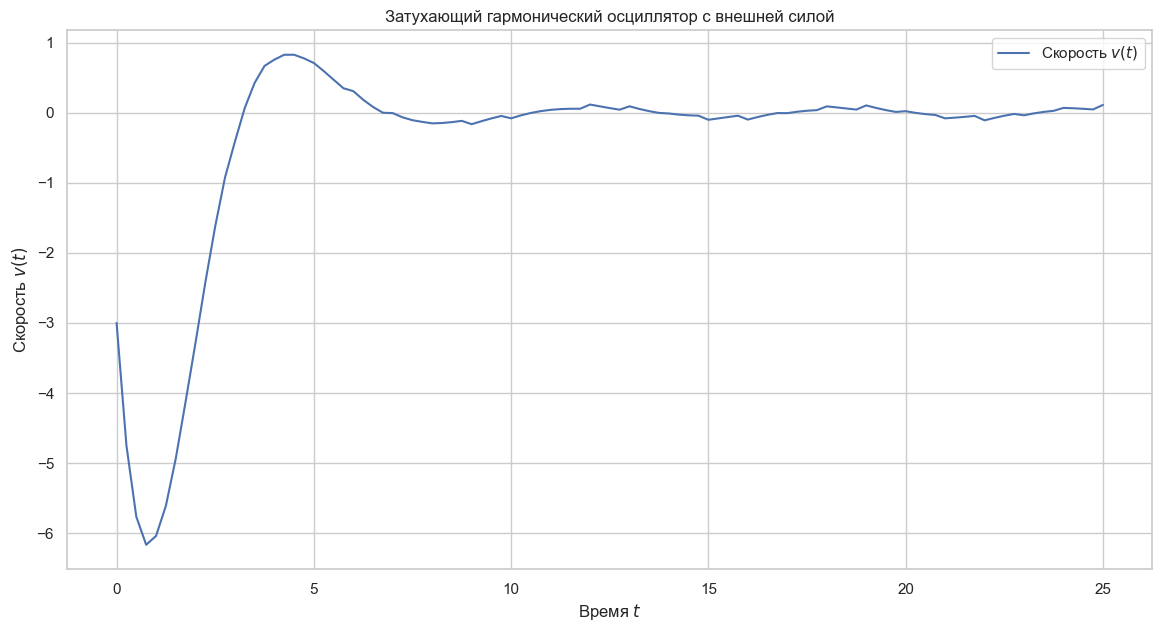
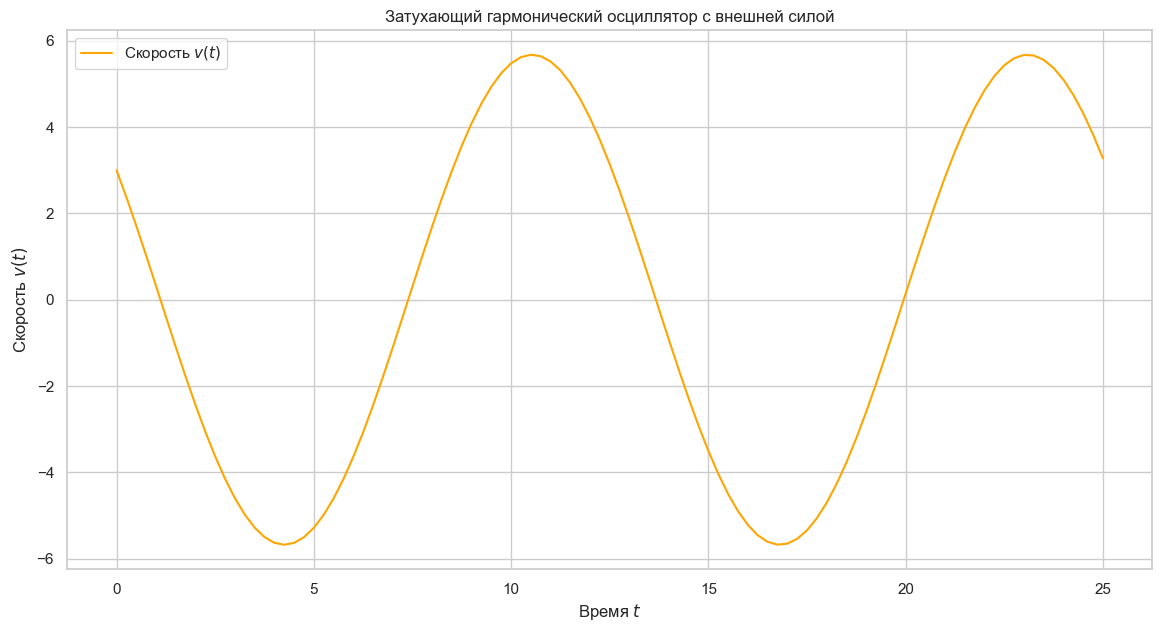
finalized a little bit

diff --git a/app.py b/app.py
@@ -25,6 +25,9 @@ class MainWindow(QtWidgets.QMainWindow):
         self.t = []
         self.e = []
 
+        self.N = 0
+        self.M = 0
+
         self.energy_flag = False
         self.points = 0
 
@@ -94,7 +97,7 @@ class MainWindow(QtWidgets.QMainWindow):
     def input_data_window(self):
         self.new_window4 = QWidget()
         self.new_window4.setGeometry(360, 220, 200, 200)
-        self.new_window4.setFixedSize(475, 400)
+        self.new_window4.setFixedSize(480, 400)
         self.new_window4.setWindowTitle("Ввод данных")
 
         self.new_window4.setWindowIcon(self.icon)
@@ -232,13 +235,16 @@ class MainWindow(QtWidgets.QMainWindow):
         N = ceil((t1 - t0) / dt1)
         M = ceil(dt1 / dt2)
 
+        self.N = N
+        self.M = M
+
         index = 1
         if A0 == 0 or OMEGA == 0:
             OMEGA_period = 0
         else:
             OMEGA_period = 1 / OMEGA
 
-        energy_flag = True if gamma == 0 and A0 == 0 else False
+        energy_flag = True if gamma == 0 and (A0 == 0 or OMEGA == 0) else False
         e = list(False for _ in range(0, N * M + 2, 1))
         self.energy_flag = energy_flag
 
@@ -266,7 +272,7 @@ class MainWindow(QtWidgets.QMainWindow):
                 if t[index] > t1:
                     t[index] = t1
 
-                if A0 == 0:
+                if A0 == 0 or OMEGA == 0:
                     driving_force = 0
                 else:
                     driving_force = A0 * np.cos(OMEGA * t[index]) / m if abs(t[index] / OMEGA_period - floor(t[index] / OMEGA_period)) < dt2 else 0
@@ -275,7 +281,8 @@ class MainWindow(QtWidgets.QMainWindow):
                 x[index] = x[index - 1] + v[index] * dt2
 
                 if energy_flag:
-                    e[index] = (m * v[index] ** 2 + m * omega0 ** 2 * x[index] ** 2) / 2
+                    if t[index] == t0 + dt1 * i:
+                        e[index] = (m * v[index] ** 2 + m * omega0 ** 2 * x[index] ** 2) / 2
 
                 if t[index] == t1:
                     break
@@ -283,14 +290,14 @@ class MainWindow(QtWidgets.QMainWindow):
 
         # Вычисление пограничного финального значения времени (при необходимости)
         if t1 not in t:
-            while t[-1] == 0:
+            while t[-1] is False:
                 del t[-1]
                 del v[-1]
                 del x[-1]
                 if energy_flag:
                     del e[-1]
             t.append(t1)
-            if A0 == 0:
+            if A0 == 0 or OMEGA == 0:
                 driving_force = 0
             else:
                 driving_force = A0 * np.cos(OMEGA * t[-1]) / m if abs(t[-1] / OMEGA_period - floor(t[-1] / OMEGA_period)) < dt2 else 0
@@ -299,24 +306,40 @@ class MainWindow(QtWidgets.QMainWindow):
             if energy_flag:
                 e.append((m * v[-1] ** 2 + m * omega0 ** 2 * x[-1] ** 2) / 2)
         else:
-            while t[-1] != t1:
-                del t[-1]
-                del v[-1]
-                del x[-1]
-                if energy_flag:
-                    del e[-1]
+            count = t.count(t1)
+            if count == 1:
+                while t[-1] != t1:
+                    del t[-1]
+                    del v[-1]
+                    del x[-1]
+                    if energy_flag:
+                        del e[-1]
+            else:
+                flag = True
+                while flag:
+                    if t[-1] == t1:
+                        count -= 1
+
+                    del t[-1]
+                    del v[-1]
+                    del x[-1]
+                    if energy_flag:
+                        del e[-1]
+
+                    if count == 1:
+                        flag = False
 
         self.x = np.asarray(x, dtype=np.float32)
         self.v = np.asarray(v, dtype=np.float32)
         self.t = np.asarray(t, dtype=np.float32)
         if energy_flag:
-            self.e = np.asarray(e, dtype=np.float32)
+            self.e = np.asarray([data if data else -1 for data in e], dtype=np.float32)
 
         # Построение графиков результатов
         sns.set(style="whitegrid")
         plt.figure(figsize=(14, 7))
         plt.plot(t, x, label='Положение $x(t)$')
-        plt.plot(t, v, label='Скорость $v(t)$')
+        plt.plot(t, v, label='Скорость $v(t)$', color='orange')
         plt.title('Затухающий гармонический осциллятор с внешней силой')
         plt.xlabel('Время $t$')
         plt.ylabel('Положение $x(t)$ и Скорость $v(t)$')
@@ -336,7 +359,7 @@ class MainWindow(QtWidgets.QMainWindow):
 
         sns.set(style="whitegrid")
         plt.figure(figsize=(14, 7))
-        plt.plot(t, v, label='Скорость $v(t)$')
+        plt.plot(t, v, label='Скорость $v(t)$', color='orange')
         plt.title('Затухающий гармонический осциллятор с внешней силой')
         plt.xlabel('Время $t$')
         plt.ylabel('Скорость $v(t)$')
@@ -365,12 +388,17 @@ class MainWindow(QtWidgets.QMainWindow):
             ws = wb.active
             last_row = ws.max_row
 
+            for cell in range(2, last_row + 1):
+                if (cell - 2) % self.M != 0:
+                    ws[f"D{cell}"].value = ""
+
             ws[f'E1'] = "Средняя составляющая энергии"
             ws[f'E2'] = f"=AVERAGE(D2:D{last_row})"
 
             ws[f'F1'] = "Относительная погрешность"
             for row in range(2, last_row + 1):
-                ws[f'F{row}'] = f"=ABS($E$2 - $D{row}) / ABS($E$2)"
+                if (row - 1) % self.M - 1 == 0:
+                    ws[f'F{row}'] = f"=ABS($E$2 - $D{row}) / ABS($E$2)"
 
             ws[f'G1'] = "Количество рассчетных точек"
             ws[f'G2'] = self.points
